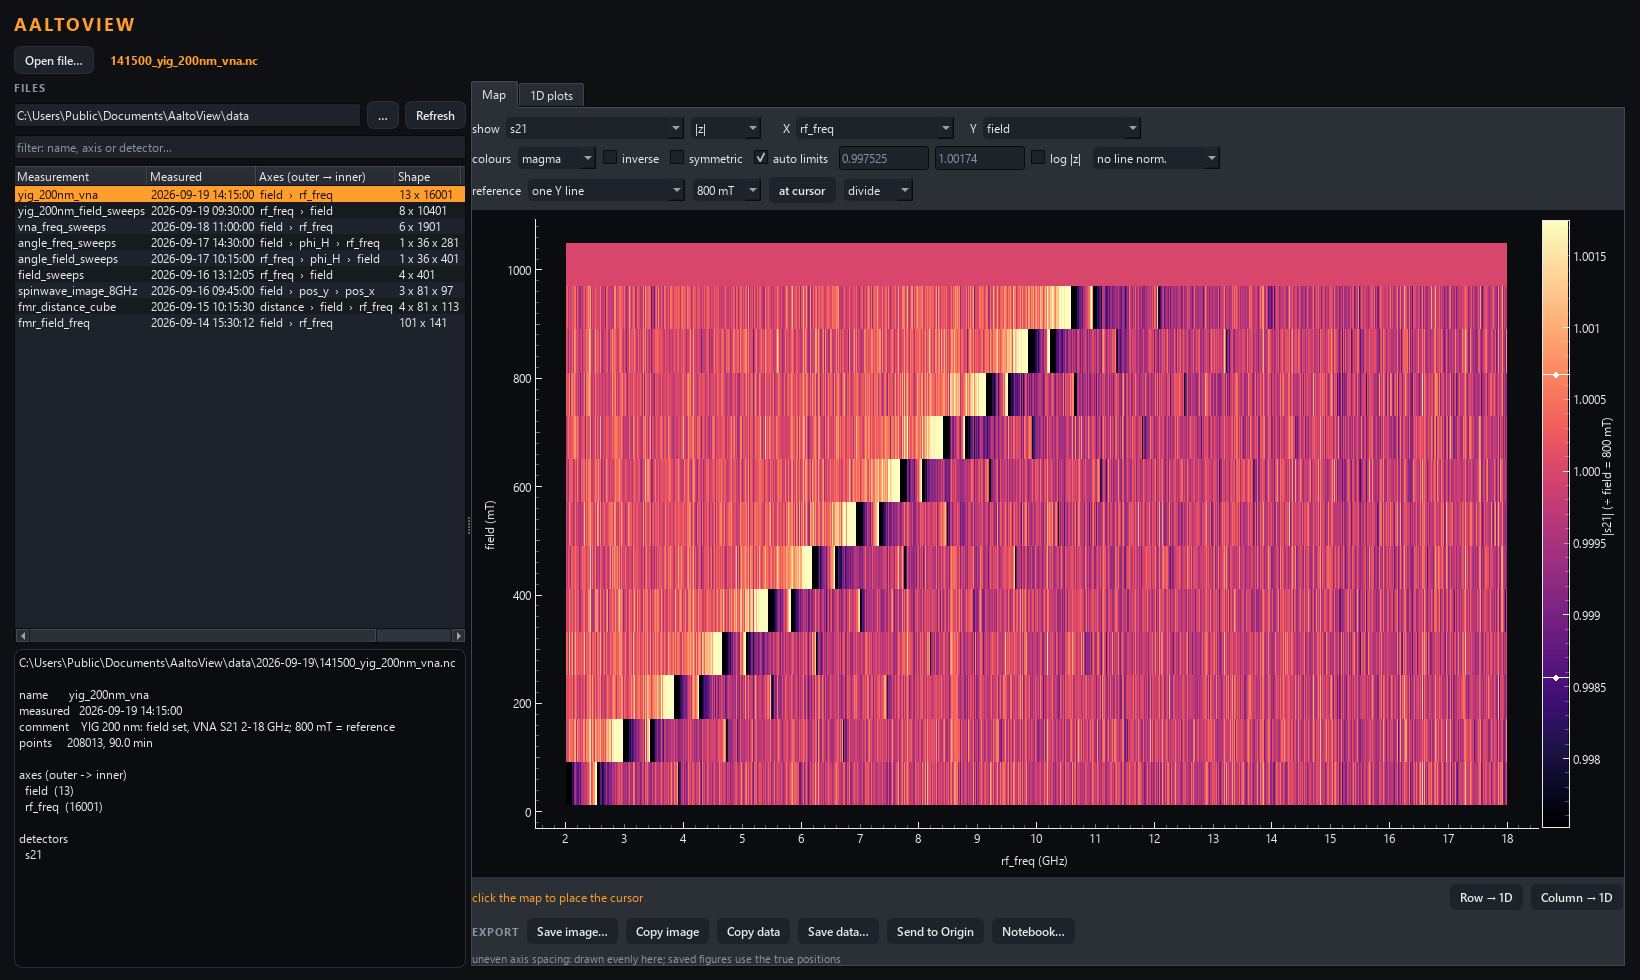
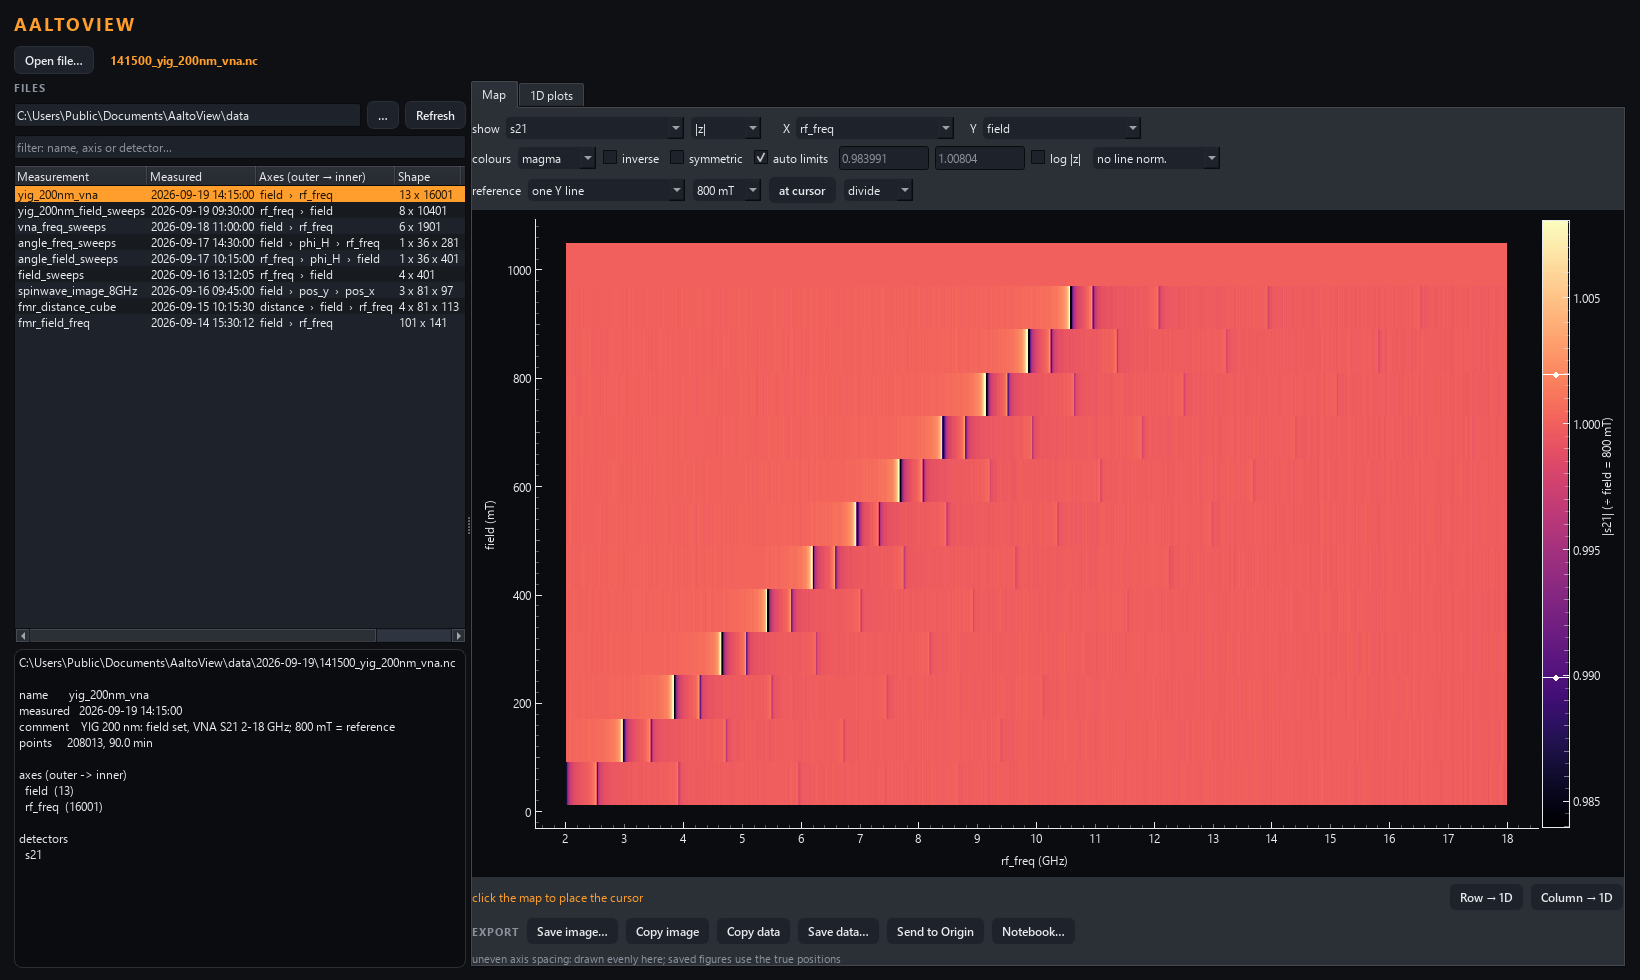
Map: cuts carry the reference; averaged drawing; 0.1/99.9 % limits
Row/Column -> 1D of a referenced map is the line on the map (Selection.ref;
complex z referenced too, notebook regenerates it). The map averages pixel
blocks when drawn (16001 VNA points were picked singly: noise), and auto
limits are the 0.1/99.9 percentile (a sharp line is < 1 % of the pixels, so
1/99 sat in the noise).

Changed region(s): [[0.3421, 0.2449, 0.9329, 0.8265], [0.964, 0.6735, 0.9951, 0.7041], [0.964, 0.551, 0.9951, 0.5816]]

diff --git a/src/aaltoview/export.py b/src/aaltoview/export.py
@@ -82,19 +82,26 @@ class Selection:
     y: str | None = None
     slices: dict[str, Slice] = field(default_factory=dict)
     part: str = "abs"
+    #: a CUT of a referenced map: {"x", "y" (the map's axes), "mode", "op", "i"}
+    #: -- the line is taken from the map AFTER the reference (see ref_line)
+    ref: dict | None = None
 
     def to_dict(self) -> dict:
-        return {"detector": self.detector, "x": self.x, "y": self.y, "part": self.part,
-                "slices": {d: {"mode": s.mode, "i0": int(s.i0),
-                               "i1": None if s.i1 is None else int(s.i1)}
-                           for d, s in self.slices.items()}}
+        d = {"detector": self.detector, "x": self.x, "y": self.y, "part": self.part,
+             "slices": {d: {"mode": s.mode, "i0": int(s.i0),
+                            "i1": None if s.i1 is None else int(s.i1)}
+                        for d, s in self.slices.items()}}
+        if self.ref:
+            d["ref"] = dict(self.ref)
+        return d
 
     @classmethod
     def from_dict(cls, d: dict) -> "Selection":
         return cls(detector=d["detector"], x=d["x"], y=d.get("y"),
                    part=d.get("part", "abs"),
                    slices={k: Slice(v["mode"], v["i0"], v.get("i1"))
-                           for k, v in d.get("slices", {}).items()})
+                           for k, v in d.get("slices", {}).items()},
+                   ref=dict(d["ref"]) if d.get("ref") else None)
 
 
 @dataclass
@@ -123,7 +130,7 @@ class MapStyle:
     cmap: str = "magma"
     invert: bool = False            # flip the colour map
     symmetric: bool = False         # limits +-max, centred on zero (Kerr signals)
-    auto: bool = True               # limits from the 1st/99th percentile
+    auto: bool = True               # limits from the 0.1st/99.9th percentile
     lo: float = 0.0                 # used when auto is False
     hi: float = 1.0
     log: bool = False               # log10 |value|
@@ -205,21 +212,69 @@ def make_curve(ds: xr.Dataset, sel: Selection, source: str | Path | None = None,
     sel = Selection.from_dict(sel.to_dict())        # detach from the caller's dict
     sel.y = None
     da = detector(ds, sel.detector)
-    red = reduce_cube(da, sel.x, None, sel.slices, sel.part)
-    y = np.asarray(red.data.values, dtype=float).copy()
+    cplx = np.iscomplexobj(da.values)
+    y_name = quantity_name(sel, cplx)
+    y_unit = "rad" if (sel.part == "arg" and cplx) else units_of(ds, sel.detector)
+    if sel.ref:
+        zl = ref_line(ds, sel)
+        y = np.asarray(apply_part(xr.DataArray(zl), sel.part).values, dtype=float).copy()
+        style, msel = _ref_style(sel)
+        y_name, y_unit = _ref_name_unit(ds, msel, style, y_name, y_unit)
+    else:
+        red = reduce_cube(da, sel.x, None, sel.slices, sel.part)
+        y = np.asarray(red.data.values, dtype=float).copy()
     x = coords_of(ds, sel.x, y.size).copy()
     if label is None:
         label = describe_slices(ds, sel) or sel.detector
+        if sel.ref:
+            label += f" ({reference_text(ds, msel, style)})"
     z = None
-    if np.iscomplexobj(da.values):
-        z = np.asarray(reduce_cube(da, sel.x, None, sel.slices, "complex").data.values,
-                       dtype=complex).copy()
+    if cplx:
+        z = (zl.astype(complex).copy() if sel.ref else
+             np.asarray(reduce_cube(da, sel.x, None, sel.slices, "complex").data.values,
+                        dtype=complex).copy())
     return Curve(x=x, y=y, label=label, x_name=sel.x, x_unit=units_of(ds, sel.x),
-                 y_name=quantity_name(sel, np.iscomplexobj(da.values)),
-                 y_unit="rad" if (sel.part == "arg" and np.iscomplexobj(da.values))
-                 else units_of(ds, sel.detector),
+                 y_name=y_name, y_unit=y_unit,
                  selection=sel, source=str(source) if source else None,
                  z=z, held=held_values(ds, sel))
+
+
+def _ref_style(sel: Selection) -> tuple["MapStyle", Selection]:
+    """The map a referenced cut came from: its style (reference only) and axes."""
+    r = sel.ref
+    return (MapStyle(ref=r["mode"], ref_op=r.get("op", "divide"), ref_i=int(r.get("i", -1))),
+            Selection(sel.detector, x=r["x"], y=r["y"], slices=sel.slices, part=sel.part))
+
+
+def ref_line(ds: xr.Dataset, sel: Selection) -> np.ndarray:
+    """A cut of a referenced map, as COMPLEX values along sel.x: the map (its
+    two axes, everything else as sel says) referenced as a whole, then the line
+    at the held index. So a column divided by the 800 mT column, a row divided
+    by its own value at 800 mT, a derivative-divide across the lines -- each
+    exactly what the map shows through the cursor."""
+    style, msel = _ref_style(sel)
+    held = msel.y if sel.x == msel.x else msel.x
+    if sel.x not in (msel.x, msel.y) or held == sel.x:
+        raise ValueError(f"a referenced cut runs along {msel.x} or {msel.y}")
+    da = detector(ds, sel.detector)
+    slices = {d: s for d, s in sel.slices.items() if d != held}
+    red = reduce_cube(da, msel.x, msel.y, slices, "complex")
+    ny, nx = red.data.shape
+    zc = reference_values(red.data.values, style, coords_of(ds, msel.x, nx),
+                          coords_of(ds, msel.y, ny))
+    k = sel.slices.get(held, Slice()).span(da.sizes[held])[0]
+    return np.asarray(zc[k] if held == msel.y else zc[:, k])
+
+
+def _ref_name_unit(ds, sel: Selection, style: "MapStyle", name: str, unit: str):
+    """'|s21| (÷ field = 800 mT)', and the unit a reference leaves."""
+    name = f"{name} ({reference_text(ds, sel, style)})"
+    if style.ref in ("dd_y", "dd_x") and sel.part != "arg":
+        dim = sel.y if style.ref == "dd_y" else sel.x
+        unit = f"1/{units_of(ds, dim)}" if units_of(ds, dim) else ""
+    elif style.ref_op == "divide" and sel.part != "arg":
+        unit = ""
+    return name, unit
 
 
 def held_values(ds: xr.Dataset, sel: Selection) -> dict[str, tuple[float, str]]:
@@ -307,12 +362,7 @@ def make_map(ds: xr.Dataset, sel: Selection, style: MapStyle | None = None,
         if red.averaged > 1 and cplx and sel.part in ("abs", "arg"):
             red.note = "coherent average (complex averaged, then " + sel.part + ")"
         z = np.asarray(red.data.values, dtype=float)
-        name = f"{name} ({reference_text(ds, sel, style)})"
-        if style.ref in ("dd_y", "dd_x") and sel.part != "arg":
-            dim = sel.y if style.ref == "dd_y" else sel.x
-            unit = f"1/{units_of(ds, dim)}" if units_of(ds, dim) else ""
-        elif style.ref_op == "divide" and sel.part != "arg":
-            unit = ""
+        name, unit = _ref_name_unit(ds, sel, style, name, unit)
     z = style_values(z, style)
     ny, nx = z.shape
     if style.norm != "none":
@@ -427,7 +477,11 @@ def map_levels(z: np.ndarray, style: MapStyle) -> tuple[float, float]:
     if not style.auto:
         lo, hi = float(style.lo), float(style.hi)
     elif fin.size:
-        lo, hi = float(np.percentile(fin, 1)), float(np.percentile(fin, 99))
+        # 0.1 / 99.9, not 1 / 99: a sharp resonance on a VNA map (a 10 MHz
+        # line in 16 GHz) covers < 1 % of the pixels, and 1 / 99 put the limits
+        # inside the noise -- the map showed noise at full contrast and the line
+        # clipped (2026-09-30). One hot pixel in 1000 is still ignored.
+        lo, hi = float(np.percentile(fin, 0.1)), float(np.percentile(fin, 99.9))
     else:
         lo, hi = 0.0, 1.0
     if style.symmetric:
@@ -738,6 +792,20 @@ def reference(z, mode, op, i, xs, ys):
         return out
 
 
+def ref_line(ds, c):
+    """A cut of a referenced map: the map referenced as a whole, then the line."""
+    r = c["ref"]
+    held = r["y"] if c["x"] == r["x"] else r["x"]
+    slices = {d: s for d, s in c["slices"].items() if d != held}
+    m = reduce(detector(ds, c["detector"]), r["x"], r["y"], slices, "complex")
+    xs = ds[r["x"]].values if r["x"] in ds.coords else np.arange(m.shape[1])
+    ys = ds[r["y"]].values if r["y"] in ds.coords else np.arange(m.shape[0])
+    z = reference(m.values, r["mode"], r.get("op", "divide"), r.get("i", -1), xs, ys)
+    n = ds.sizes[held]
+    k = min(max(int(c["slices"].get(held, {"i0": 0})["i0"]), 0), n - 1)
+    return part_of(z[k] if held == r["y"] else z[:, k], c["part"])
+
+
 def normalize(v, mode):
     v = np.asarray(v, dtype=float)
     fin = v[np.isfinite(v)]
@@ -854,9 +922,12 @@ def notebook_cells(nb_dir: Path, m: Map | None = None, style: MapStyle | None = 
             "lines = []\n"
             "for k, c in enumerate(CURVES):\n"
             "    ds = data[c['file']]\n"
-            "    y = reduce(detector(ds, c['detector']), c['x'], None, c['slices'], c['part'])\n"
+            "    if c.get('ref'):                  # a cut of a referenced map\n"
+            "        y = ref_line(ds, c)\n"
+            "    else:\n"
+            "        y = reduce(detector(ds, c['detector']), c['x'], None, c['slices'], c['part']).values\n"
             "    x = ds[c['x']].values if c['x'] in ds.coords else np.arange(y.size)\n"
-            "    yv = normalize(y.values, NORM) + k * OFFSET\n"
+            "    yv = normalize(y, NORM) + k * OFFSET\n"
             "    lines.append((x, yv))\n"
             "    ax.plot(x, yv, marker='o', ms=2.5, lw=1.2, label=c['label'])\n"
             f"ax.set_xlabel({curve_axis_titles(curves, norm)[0]!r})\n"

diff --git a/src/aaltoview/apps/viewer.py b/src/aaltoview/apps/viewer.py
@@ -597,7 +597,7 @@ class MapPanel(_Panel):
         self.symmetric.setToolTip("Limits ±max, centred on zero. Use with red-blue for a signal "
                                   "that changes sign.")
         self.auto = QtWidgets.QCheckBox("auto limits"); self.auto.setChecked(True)
-        self.auto.setToolTip("1st to 99th percentile, so a single hot pixel does not flatten "
+        self.auto.setToolTip("0.1st to 99.9th percentile, so a single hot pixel does not flatten "
                              "the map. Untick to type limits, or drag the colour bar.")
         self.lo_edit = QtWidgets.QLineEdit(); self.hi_edit = QtWidgets.QLineEdit()
         for w, tip in ((self.lo_edit, "lower limit"), (self.hi_edit, "upper limit")):
@@ -637,7 +637,7 @@ class MapPanel(_Panel):
             "    across the map is in few lines, so the median is the background;\n"
             "  derivative-divide: (z[k+1] − z[k−1]) / (Δ · z[k]) along the axis\n"
             "    (Maier-Flaig 2018) -- cancels a background that is slow along it.\n"
-            "The 1D cuts stay the raw data (the FMR fit has its own reference).")
+            "Row / Column → 1D send the line as it is here, referenced.")
         rf.addWidget(self.ref_combo)
         self.ref_value = QtWidgets.QComboBox()
         self.ref_value.setToolTip("The reference line. Or: place the cursor on the map and "
@@ -663,7 +663,11 @@ class MapPanel(_Panel):
 
         self.glw = pg.GraphicsLayoutWidget()
         self.plot = self.glw.addPlot()
-        self.img = pg.ImageItem()
+        # autoDownsample AVERAGES blocks of pixels when the map has more points
+        # than the screen: without it, 16001 VNA frequencies in ~500 pixel rows
+        # were drawn as single picked points -- noise, and a narrow line could
+        # fall between the picks (2026-09-30)
+        self.img = pg.ImageItem(autoDownsample=True)
         self.plot.addItem(self.img)
         self.cbar = pg.ColorBarItem(colorMap=_pg_cmap("magma", False), interactive=True)
         self.cbar.setImageItem(self.img, insert_in=self.plot)
@@ -899,6 +903,9 @@ class MapPanel(_Panel):
         sel = self._map.selection
         i, j = self._cursor
         s = E.Selection.from_dict(sel.to_dict())
+        st = self.map_style()
+        if st.ref != "none":
+            s.ref = {"x": sel.x, "y": sel.y, "mode": st.ref, "op": st.ref_op, "i": st.ref_i}
         if which == "row":
             s.slices[sel.y] = V.Slice("at", j)
             s.y = None

diff --git a/tests/test_export.py b/tests/test_export.py
@@ -453,3 +453,33 @@ def test_the_notebook_recomputes_a_referenced_map(tmp_path):
                               style, source=src)
             ns = _run_notebook(E.write_notebook(nb_dir / "v.ipynb", m=m, style=style))
             np.testing.assert_allclose(ns["z"], m.z, equal_nan=True)
+
+
+def test_a_cut_of_a_referenced_map_is_the_line_on_the_map(tmp_path):
+    """Row / Column -> 1D of a referenced map: the numbers of the map through
+    the cursor, complex z referenced too (an analysis module gets the sample
+    alone), and the notebook regenerates it."""
+    src = _vna_map(tmp_path)
+    ds = xr.open_dataset(src, engine="h5netcdf").load()
+    ref = {"x": "freq", "y": "field", "mode": "row", "op": "divide", "i": -1}
+    for style, r in ((E.MapStyle(ref="row", ref_i=-1), ref),
+                     (E.MapStyle(ref="dd_x"), {**ref, "mode": "dd_x"})):
+        m, _ = E.make_map(ds, E.Selection("s21", x="freq", y="field"), style)
+        col = E.make_curve(ds, E.Selection("s21", x="freq", slices={"field": Slice("at", 1)},
+                                           ref=r), source=src)          # along freq, 40 mT
+        np.testing.assert_allclose(col.y, m.z[1], equal_nan=True)
+        row = E.make_curve(ds, E.Selection("s21", x="field", slices={"freq": Slice("at", 30)},
+                                           ref=r), source=src)          # along field
+        np.testing.assert_allclose(row.y, m.z[:, 30], equal_nan=True)
+    col = E.make_curve(ds, E.Selection("s21", x="freq", part="arg",
+                                       slices={"field": Slice("at", 1)}, ref=ref), source=src)
+    assert col.label == "field = 40 mT (÷ field = 500 mT)" and col.y_unit == "rad"
+    np.testing.assert_allclose(np.angle(col.z), col.y)
+    back = E.Selection.from_dict(col.selection.to_dict())
+    assert back.ref == ref
+    nb_dir = tmp_path / "nb"
+    nb_dir.mkdir()
+    ns = _run_notebook(E.write_notebook(nb_dir / "c.ipynb", curves=[col, row]))
+    (_, y1), (_, y2) = ns["lines"]
+    np.testing.assert_allclose(y1, col.y)
+    np.testing.assert_allclose(y2, row.y, equal_nan=True)

diff --git a/tests/test_viewer.py b/tests/test_viewer.py
@@ -227,7 +227,7 @@ def test_the_complex_part_choice_follows_the_detector(viewer, tmp_path):
 
 def test_the_map_divided_by_a_reference_line(viewer):
     """Reference = one Y line, picked from its values or at the cursor; the
-    values of the axis follow the axis; the 1D cuts stay the raw data."""
+    values of the axis follow the axis; the 1D cuts are the referenced lines."""
     _open_first(viewer)                                   # x, y; freq held at 1 GHz
     m = viewer.map
     m.ref_combo.setCurrentIndex(m.ref_combo.findData("row"))
@@ -241,8 +241,13 @@ def test_the_map_divided_by_a_reference_line(viewer):
     assert m.ref_value.currentText() == "0 um"
     m.ref_op.setCurrentIndex(m.ref_op.findData("subtract"))
     np.testing.assert_allclose(m._map.z, [[0, 0], [10, 10], [20, 20]])
-    m._cut("row")
-    assert viewer.lines.curves[-1].y.tolist() == [100.0, 101.0]
+    m._cut("row")                                         # through y = 0 um
+    c = viewer.lines.curves[-1]
+    assert c.y.tolist() == [0.0, 0.0]                     # the map's row, referenced
+    assert c.label == "freq = 1 GHz, y = 0 um (− y = 0 um)"
+    m._place_cursor(1, 2)
+    m._cut("column")                                      # along y at x = 1
+    assert viewer.lines.curves[-1].y.tolist() == [0.0, 10.0, 20.0]
     m.controls.x_combo.setCurrentText("freq")             # the Y axis is now x...
     m.controls.y_combo.setCurrentText("y")
     assert m.ref_value.count() == 3

diff --git a/README.md b/README.md
@@ -28,7 +28,8 @@ simulated data (see [Try it without lab data](#try-it-without-lab-data)).*
   highest field, where the resonance is out of the band; ÷ the median line when
   no reference was measured; or derivative-divide along X or Y. It is applied
   to the complex values, so |z| and arg z are of the ratio. Click to place a
-  cursor; **Row → 1D** / **Column → 1D** send the line through it (raw data).
+  cursor; **Row → 1D** / **Column → 1D** send the line through it, as shown
+  (referenced too).
 - **1D plots** — a dashed preview of the current selection. **Add current**, or
   pick a dimension, select several of its values and **Add selected** (one curve
   per value). Curves are frozen copies that remember their file, so curves from
@@ -62,7 +63,7 @@ a complex signal are taken coherently.*
 | ![normalised, stacked field sweeps](docs/curves-normalised-light.png) | ![map with every line normalised](docs/map-rows-light.png) |
 | Field sweeps at 6–12 GHz, each normalised to its peak and stacked. | The same kind of map with every frequency line scaled to its own peak, so the resonance can be followed where the signal is weak. Light theme. |
 | ![VNA map divided by its reference](docs/map-reference.png) | ![the same, light theme](docs/map-reference-light.png) |
-| |S21| of 200 nm YIG, the field set and the frequency swept, every line ÷ the 800 mT line: the cables, amplifier and delay cancel and the resonance is left, at the 0.1 % level. | The same, light theme. |
+| |S21| of 200 nm YIG, the field set and the frequency swept, every line ÷ the 800 mT line: the cables, amplifier and delay cancel, and the uniform mode and the weaker PSSW are left. | The same, light theme. |
 
 ## Analysis modules
 
